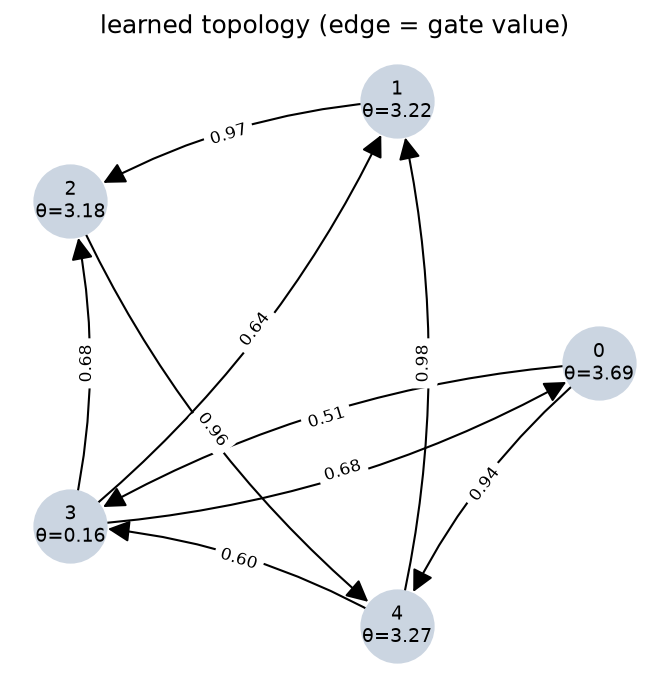
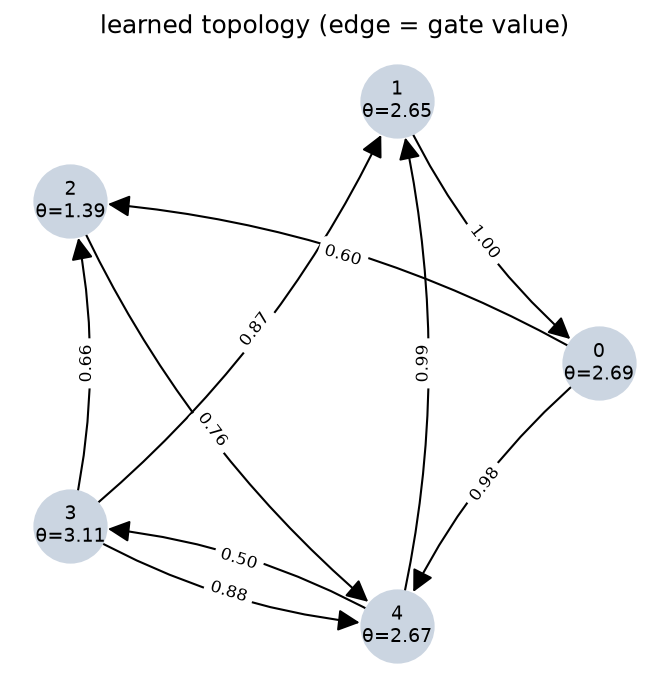
More changes refer to previous commit

diff --git a/src/oscillon/graph.py b/src/oscillon/graph.py
@@ -37,6 +37,18 @@ class MotifSpec:
         return cls(n=n, adjacency=A, label=label or f"Cycle({n})", **kwargs)
 
     @classmethod
+    def dense(cls, n: int, label: str = "", **kwargs: float) -> "MotifSpec":
+        """Create a dense graph on n nodes"""
+        A = ~np.eye(n, dtype=bool)
+        return cls(n=n, adjacency=A, label=label or f"Dense({n})", **kwargs)
+
+    @classmethod
+    def sparse(cls, n: int, label: str = "", **kwargs: float) -> "MotifSpec":
+        """Create a sparse graph on n nodes"""
+        A = np.zeros((n, n), dtype=bool)
+        return cls(n=n, adjacency=A, label=label or f"Custom({n})", **kwargs)
+
+    @classmethod
     def from_edge_list(
         cls, n: int, edges: list[tuple[int, int]], label: str = "", **kwargs: float
     ) -> "MotifSpec":
@@ -154,3 +166,64 @@ class NetworkSpec:
                 motif.delta_init,
             )
         logger.info("delta_cross matrix:\n%s ", np.round(self._cross_deltas, 3))
+
+
+def plot_network_graph(
+    G_gate,                       # (N,N) gate matrix from block_gate_matrix, OR bool adjacency
+    theta=None,                   # (N,) per-node drive, optional
+    thresh=0.5,
+    labels=None,
+    save_path=None,
+):
+    """Draw learned topology. Edges present where gate > thresh, labeled with gate value.
+    G_gate[i, j] is the gate for edge j->i (graph.py convention)."""
+    import matplotlib.pyplot as plt
+    import networkx as nx
+
+    G_gate = np.asarray(G_gate, dtype=float)
+    n = G_gate.shape[0]
+    A = G_gate > thresh
+
+    graph = nx.DiGraph()
+    graph.add_nodes_from(range(n))
+    edge_labels = {}
+    for i in range(n):
+        for j in range(n):
+            if A[i, j]:                       # edge j -> i
+                graph.add_edge(j, i)
+                edge_labels[(j, i)] = f"{G_gate[i, j]:.2f}"
+
+    pos = nx.circular_layout(graph)
+
+    # node labels: index + theta if provided
+    if theta is not None:
+        theta = np.asarray(theta)
+        node_labels = {k: f"{k}\nθ={theta[k]:.2f}" for k in range(n)}
+    elif labels is not None:
+        node_labels = {k: labels[k] for k in range(n)}
+    else:
+        node_labels = {k: str(k) for k in range(n)}
+
+    fig, ax = plt.subplots(figsize=(5.5, 5.5))
+    nx.draw_networkx_nodes(graph, pos, node_color="#cbd5e1", node_size=1200, ax=ax)
+    nx.draw_networkx_labels(graph, pos, labels=node_labels, font_size=9, ax=ax)
+    nx.draw_networkx_edges(
+        graph, pos, 
+        arrowstyle="-|>", 
+        arrowsize=22,
+        min_target_margin=18,
+        min_source_margin=10,
+        connectionstyle="arc3,rad=0.12", 
+        ax=ax,
+    )
+    nx.draw_networkx_edge_labels(
+        graph, pos, edge_labels=edge_labels,
+        label_pos=0.5, font_size=8,
+        connectionstyle="arc3,rad=0.10",     # must match the edge curve
+        ax=ax,
+    )
+    ax.set_title("learned topology (edge = gate value)")
+    ax.axis("off")
+    if save_path:
+        plt.savefig(save_path, bbox_inches="tight", dpi=150)
+    return fig

diff --git a/src/oscillon/topology.py b/src/oscillon/topology.py
@@ -84,7 +84,7 @@ class BlockSoftSpec:
         for n_block in self.sizes:
             out.append(s); s += n_block
         return out
-    
+
     def compile_indices(
         self,
     ) -> tuple[NDArray[np.intp], NDArray[np.intp],
@@ -140,6 +140,15 @@ def init_block_params_from_adjacency(
     z = z + noise_std * jax.random.normal(key, (spec.n_edges,))
     if spec.learn_theta:
         return jnp.concatenate([z, jnp.full((spec.n_total,), spec.theta_init)])
+    return z
+
+def init_params_asymmetric(spec, key, z_mean=0.0, z_std=2.0):
+    """Random asymmetric gate logits; no cyclic prior, but broken symmetry."""
+    key_z, _ = jax.random.split(key)
+    z = z_mean + z_std * jax.random.normal(key_z, (spec.n_edges,))
+    if spec.learn_theta:
+        theta = jnp.full((spec.n_total,), spec.theta_init)
+        return jnp.concatenate([z, theta])
     return z
 
 def gate_saturation_penalty(z_flat: jax.Array) -> jax.Array:
@@ -256,3 +265,20 @@ def extract_adjacency(
     Feed into graph.MotifSpec(n=spec.n, adjacency=A) to visualize topology (plot_network_graph)
     """
     return gate_matrix(spec, z_flat) > thresh
+
+def block_gate_matrix(spec: BlockSoftSpec, params: jax.Array) -> NDArray[np.float64]:
+    """(N, N) matrix of within-block sigmoid gate values (0 elsewhere)."""
+    rows, cols, *_ = spec.compile_indices()
+    z = np.asarray(params[: spec.n_edges])
+    G = np.zeros((spec.n_total, spec.n_total))
+    G[rows, cols] = 1.0 / (1.0 + np.exp(-z))    # sigmoid
+    return G
+
+def extract_block_adjacency(
+    spec: BlockSoftSpec, params: jax.Array, thresh: float = 0.5
+) -> NDArray[np.bool_]:
+    """
+    Round trained block-soft params to a discrete (N, N) adjacency.
+    A[i, j] = True means edge j->i, matching graph.py's convention.
+    """
+    return block_gate_matrix(spec, params) > thresh

diff --git a/examples/n_cycle.py b/examples/n_cycle.py
@@ -265,11 +265,11 @@ def run_sweep(n_seeds=20, z_std=2.0):
                 f"hamiltonian={hamiltonian!s:5} "
                 f"amp={amp:.3f} period={per} eig={fp['max_real_eig']:+.3f}")
 
-    n = len(results)
-    n_emerged = sum(r["emerged"] for r in results)
-    n_topo = sum(r["cycle_topology"] for r in results)
-    n_both = sum(r["emerged"] and r["cycle_topology"] for r in results)
-    n_hamiltonian = sum(r["hamiltonian_cycle"] for r in results)
+            n = len(results)
+            n_emerged = sum(r["emerged"] for r in results)
+            n_topo = sum(r["cycle_topology"] for r in results)
+            n_both = sum(r["emerged"] and r["cycle_topology"] for r in results)
+            n_hamiltonian = sum(r["hamiltonian_cycle"] for r in results)
 
     print("\n" + "=" * 60)
     print(f"DISCOVERY SWEEP  (N={N}, {n_seeds} seeds, z_std={z_std})")
@@ -280,6 +280,20 @@ def run_sweep(n_seeds=20, z_std=2.0):
     print("=" * 60)
     return results
 
+
+    from collections import defaultdict
+
+    by_zstd = defaultdict(list)
+    for r in all_results:          # your existing flat list of per-run dicts
+        by_zstd[r["z_std"]].append(r)
+
+    for z_std in sorted(by_zstd):
+        rows = by_zstd[z_std]
+        n = len(rows)
+        osc = sum(r["emerged"] for r in rows)
+        ham = sum(r["hamiltonian"] for r in rows)
+        print(f"z_std={z_std:.1f}: oscillation {osc}/{n} ({100*osc/n:.0f}%), "
+            f"hamiltonian {ham}/{n} ({100*ham/n:.0f}%)")
 
 if __name__ == "__main__" or True:   # set False to skip when running main script
     sweep_results = run_sweep(n_seeds=20, z_std=2.0)

diff --git a/src/oscillon/readout.py b/src/oscillon/readout.py
@@ -9,7 +9,9 @@ def fit_readout(xs: jax.Array, targets: jax.Array, ridge: float) -> tuple[jax.Ar
     Xa = jnp.concatenate([xs, jnp.ones((T, 1))], axis=1)  # (T, n+1)
 
     n = xs.shape[1]
-    A = Xa.T @ Xa + ridge * jnp.eye(n + 1)   # (n+1, n+1)
+    d = ridge * jnp.ones(n + 1)
+    d = d.at[-1].set(0.0)
+    A = Xa.T @ Xa + jnp.diag(d)   # (n+1, n+1)
     B = Xa.T @ targets                       # (n+1, m)
     theta = jnp.linalg.solve(A, B)
     R = theta[:n].T                          # (m, n)
@@ -20,5 +22,5 @@ def fit_readout(xs: jax.Array, targets: jax.Array, ridge: float) -> tuple[jax.Ar
 def apply_readout(xs: jax.Array, R: jax.Array, b: jax.Array) -> jax.Array:
     """(T,n) -> (T,m)."""
     y = xs @ R.T + b   # (T, n) @ (n, m) -> (T, m)
-    
+
     return y

diff --git a/src/oscillon/model.py b/src/oscillon/model.py
@@ -41,7 +41,7 @@ class TrainResult:
 
 
 def train(spec: BlockSoftSpec, params0, x0, targets, key, *,
-          dt=0.1, n_steps=2000, burn_in=200, ridge=1e-4, sat_weight=0.05,
+          dt=0.1, n_steps=2000, burn_in=200, ridge=1e-6, sat_weight=0.05,
           warm=None, cryst=None) -> TrainResult:
     p2m = make_block_param_to_model(spec)
     warm = warm or dict(n_iters=300, pop=128, sigma=0.1, lr=0.05)
